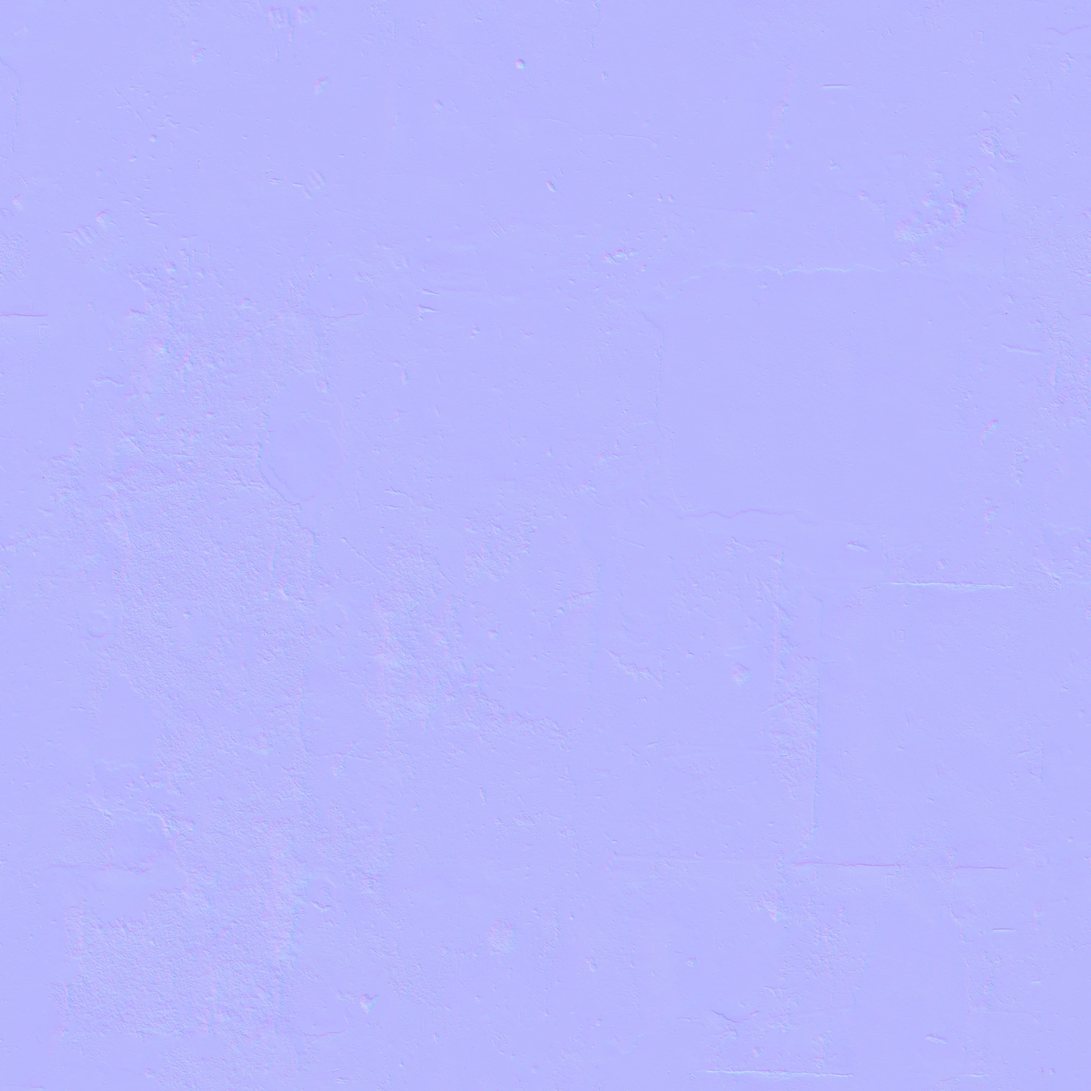
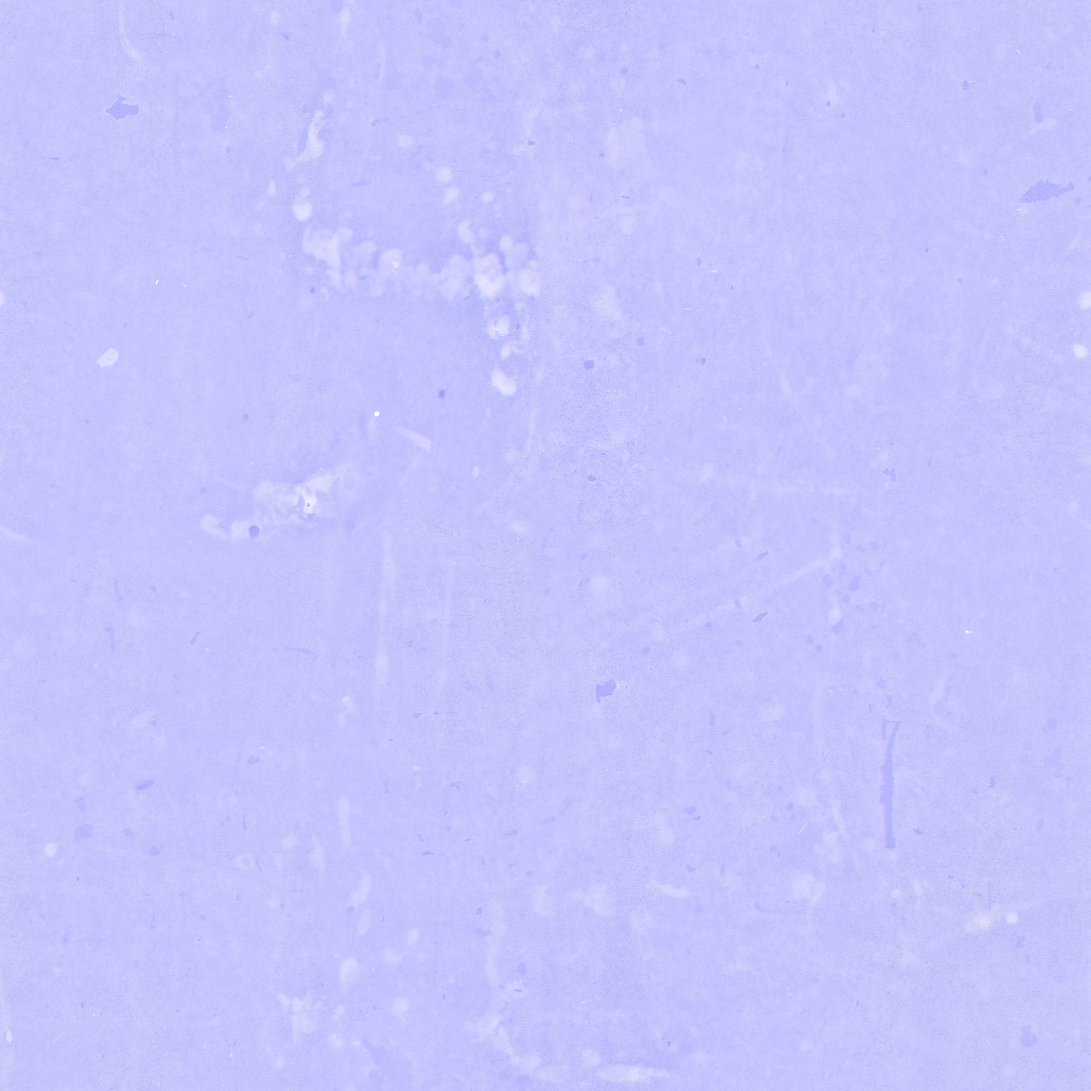
Outpost ground without camouflage, grey steel instead of toy green, deck railings, quieter glows
- Outpost ground scan is worn concrete (the previous scan's stains plus the stain layer read as camo); stain
  layer contrast roughly halved, ground tile 7 m
- Outpost casing is weathered grey steel; painted trims worn off-white instead of glaring white
- Elevated decks get guard railings (posts, top and mid rail, toe board), open where a ramp lands
- Gate signals and tether beacons dimmed further; blast-door hazard chevrons are paint, not emissive

Claude-Session: https://claude.ai/code/session_01BTermVuq16pouLtCprPn2p

diff --git a/packages/game/src/visuals/railing.ts b/packages/game/src/visuals/railing.ts
@@ -1,0 +1,70 @@
+import type { Material } from '@babylonjs/core/Materials/material';
+import type { Mesh } from '@babylonjs/core/Meshes/mesh';
+import type { Box, Ramp } from '@riftwarden/rules/world/layout';
+
+/**
+ * Guard railing around the edge of an elevated deck, as on any real platform: posts every ~1.5 m, a top rail at
+ * 1.05 m, a mid rail and a toe board. Edges where a ramp lands stay open (the ramp's end overlaps that edge).
+ * Visual only, no collider (the drone flies over decks; towers sit inside the edge).
+ */
+export interface RailHost {
+  box(x0: number, y0: number, z0: number, x1: number, y1: number, z1: number, mat: Material, surface: string | null): Mesh;
+}
+
+/** Edge spans [start, end] along each side that are not taken by a landing ramp. Pure. */
+export function openSpans(lo: number, hi: number, blocked: readonly [number, number][]): [number, number][] {
+  let spans: [number, number][] = [[lo, hi]];
+  for (const [b0, b1] of blocked) {
+    const next: [number, number][] = [];
+    for (const [s, e] of spans) {
+      if (b1 <= s || b0 >= e) next.push([s, e]);
+      else {
+        if (b0 > s) next.push([s, b0]);
+        if (b1 < e) next.push([b1, e]);
+      }
+    }
+    spans = next;
+  }
+  return spans.filter(([s, e]) => e - s > 0.6);
+}
+
+export function buildRailings(h: RailHost, b: Box, ramps: readonly Ramp[], mat: Material, toe: Material): void {
+  const [x0, , z0] = b.min;
+  const [x1, y1, z1] = b.max;
+  const top = y1;
+  const inset = 0.08;
+  const near = (v: number, w: number) => Math.abs(v - w) < 0.6;
+  // Ramps landing on the deck: their high end touches one of the four edges.
+  const land = (edge: 'x0' | 'x1' | 'z0' | 'z1'): [number, number][] => ramps.filter((r) => Math.abs(Math.max(r.hMin, r.hMax) - top) < 0.6).flatMap((r): [number, number][] => {
+    if (r.axis === 'x') {
+      const hiEnd = r.hMax >= r.hMin ? r.x1 : r.x0;
+      if ((edge === 'x0' && near(hiEnd, x0)) || (edge === 'x1' && near(hiEnd, x1))) return [[r.z0 - 0.3, r.z1 + 0.3]];
+    } else {
+      const hiEnd = r.hMax >= r.hMin ? r.z1 : r.z0;
+      if ((edge === 'z0' && near(hiEnd, z0)) || (edge === 'z1' && near(hiEnd, z1))) return [[r.x0 - 0.3, r.x1 + 0.3]];
+    }
+    return [];
+  });
+  const sides: { along: 'x' | 'z'; at: number; edge: 'x0' | 'x1' | 'z0' | 'z1'; lo: number; hi: number; s: number }[] = [
+    { along: 'x', at: z0, edge: 'z0', lo: x0, hi: x1, s: 1 },
+    { along: 'x', at: z1, edge: 'z1', lo: x0, hi: x1, s: -1 },
+    { along: 'z', at: x0, edge: 'x0', lo: z0, hi: z1, s: 1 },
+    { along: 'z', at: x1, edge: 'x1', lo: z0, hi: z1, s: -1 },
+  ];
+  for (const side of sides) {
+    const c = side.at + side.s * inset;
+    for (const [s0, s1] of openSpans(side.lo + 0.1, side.hi - 0.1, land(side.edge))) {
+      const seg = (a0: number, a1: number, y0: number, ya: number, t: number, m: Material) => side.along === 'x'
+        ? h.box(a0, top + y0, c - t, a1, top + ya, c + t, m, null)
+        : h.box(c - t, top + y0, a0, c + t, top + ya, a1, m, null);
+      const posts = Math.max(1, Math.round((s1 - s0) / 1.5));
+      for (let k = 0; k <= posts; k++) {
+        const a = s0 + ((s1 - s0) * k) / posts;
+        seg(a - 0.025, a + 0.025, 0, 1.05, 0.025, mat);
+      }
+      seg(s0, s1, 1.0, 1.05, 0.03, mat); // top rail
+      seg(s0, s1, 0.52, 0.55, 0.018, mat); // mid rail
+      seg(s0, s1, 0, 0.12, 0.008, toe); // toe board
+    }
+  }
+}

diff --git a/packages/game/src/visuals/biomeSurfaces.ts b/packages/game/src/visuals/biomeSurfaces.ts
@@ -117,10 +117,11 @@ const SET_PBR: Partial<Record<SurfaceSetId, { metal: number; rough: number }>> =
 };
 export const BIOME_SURFACES: Record<BiomeId, { ground: SurfaceLook & { tile: number }; masonry: SurfaceLook; cladding: SurfaceLook; casing: SurfaceLook; rust: SurfaceLook }> = {
   outpost: {
-    ground: { set: 'outpost-ground', tint: [1.05, 1.02, 0.98], normal: 1, tile: 5, depth: 0.045 },
+    ground: { set: 'outpost-ground', tint: [0.92, 0.9, 0.87], normal: 1, tile: 7, depth: 0.045 },
     masonry: { set: 'outpost-masonry', tint: [0.8, 0.82, 0.84], normal: 0.9, depth: 0.03 },
     cladding: { set: 'cryo-casing', tint: [0.82, 0.8, 0.76], normal: 0.7 },
-    casing: { set: 'outpost-casing', tint: [0.62, 0.66, 0.62], normal: 0.8 },
+    // Weathered grey steel: the green paint covered every gantry, ramp and roof and read as a toy set.
+    casing: { set: 'foundry-casing', tint: [0.62, 0.64, 0.66], normal: 0.8 },
     rust: { set: 'foundry-casing', tint: [0.85, 0.8, 0.75], normal: 0.8 },
   },
   cryo: {
@@ -209,7 +210,8 @@ function yardMacro(scene: Scene, biome: BiomeId, span: number) {
       // Ground darkens toward the yard edge (runoff and dirt collect along the walls).
       const edge = Math.max(Math.abs(u - 0.5), Math.abs(v - 0.5)) * 2;
       const rim = Math.max(0, (edge - (1 - 24 / span)) * (span / 24));
-      const k = Math.max(0.35, Math.min(1, 0.78 + (broad - 0.5) * 0.55 - blotch * 0.35 - streak * 0.2 - rim * 0.3));
+      // Gentle: strong blotches on top of a scan's own stains read as camouflage.
+      const k = Math.max(0.55, Math.min(1, 0.86 + (broad - 0.5) * 0.26 - blotch * 0.16 - streak * 0.1 - rim * 0.22));
       const i = (y * N + x) * 4;
       img.data[i] = img.data[i + 1] = img.data[i + 2] = k * 255;
       img.data[i + 3] = 255;

diff --git a/packages/game/src/visuals/arena.ts b/packages/game/src/visuals/arena.ts
@@ -35,6 +35,7 @@ import { GroundRelief } from './groundRelief';
 import { sculptGround } from './uv';
 import { buildContainerStack, containerLiveries } from './containerModel';
 import { buildMachineBank, machineRoofSlots } from './machineModel';
+import { buildRailings } from './railing';
 import { arenaGrimeFaces, buildContactGrime, GRIME } from './contactGrime';
 import { PROP_SPECIES } from '@riftwarden/rules/world/propCatalog';
 
@@ -69,7 +70,8 @@ export class ArenaBuilder {
 
   constructor(private scene: Scene, private pal: Palette, private layout: ArenaLayout, private high = true) {
     this.physicsShape = new PhysicsShapeContainer(scene);
-    this.relayLight = unlit(scene, 'relayBeacon', [0.24, 2.1, 1.75]);
+    // Tether beacons stay readable (gameplay) but no longer bloom like neon.
+    this.relayLight = unlit(scene, 'relayBeacon', [0.12, 1.0, 0.85]);
   }
 
   private add(mesh: Mesh, mat: Material, surface: string | null): void {
@@ -350,6 +352,7 @@ export class ArenaBuilder {
             fascia(x, 0.47, y1 - 1.04, 0.07, 0.13, 0.15, P.metal);
           }
         }
+        buildRailings({ box: (...a) => this.box(...a) }, b, this.layout.ramps, P.metal, P.enamel);
         break;
       }
       case 'relay': {
@@ -534,7 +537,7 @@ export class ArenaBuilder {
       { id: 'south', pos: new Vector3(0, 0, -H), yaw: Math.PI },
     ];
     for (const f of frames) {
-      const lights = unlit(this.scene, `gateSignal:${f.id}`, [0.8, 0.22, 0.05], { twoSided: true });
+      const lights = unlit(this.scene, `gateSignal:${f.id}`, [0.42, 0.1, 0.025], { twoSided: true });
       const root = new TransformNode('gate', this.scene);
       root.position.copyFrom(f.pos);
       root.rotation.y = f.yaw;

diff --git a/packages/game/src/visuals/biomeLight.ts b/packages/game/src/visuals/biomeLight.ts
@@ -45,6 +45,8 @@ export function applyBiomeLight(scene: Scene, post: PostFx, P: Palette, biome: B
   P.steel.metallic = 0.25;
   // Bare steel (pipes, rails, ladders) read as white plastic under the stronger fill: weathered galvanised instead.
   P.metal.albedoColor.set(0.46, 0.47, 0.48);
+  // Painted trims (vent frames, bands) glared white under the fill: worn off-white.
+  P.white.albedoColor.set(0.32, 0.32, 0.3);
   P.metal.roughness = 1.25;
   // Decorative emissive strips (wall bars, machine slots, rings) were tuned to carry a dark scene; in a lit one they
   // read as arcade neon. Real plant has small indicators, so they drop well below bloom threshold.

diff --git a/packages/game/src/world/ArenaDynamics.ts b/packages/game/src/world/ArenaDynamics.ts
@@ -114,7 +114,8 @@ export class ArenaDynamics {
     const w = b.max[0] - b.min[0];
     const h = b.max[1] - b.min[1];
     const d = b.max[2] - b.min[2];
-    const hazard = unlit(this.scene, 'doorHazard', [0.95, 0.38, 0.04]);
+    // Hazard chevrons are paint, not light.
+    const hazard = P.enamel;
     const warn = unlit(this.scene, 'doorWarn', [0.45, 0.04, 0.015]);
     this.warnLights.push({ mat: warn, on: () => this.door.some((m) => m.t > 0 && m.t < 1) });
     for (const side of [-1, 1]) {

diff --git a/tests/railing.test.ts b/tests/railing.test.ts
@@ -1,0 +1,11 @@
+import { describe, expect, it } from 'vitest';
+import { openSpans } from '@riftwarden/game/visuals/railing';
+
+describe('deck railing spans', () => {
+  it('leaves a gap where a ramp lands and drops slivers', () => {
+    expect(openSpans(0, 10, [])).toEqual([[0, 10]]);
+    expect(openSpans(0, 10, [[3, 6]])).toEqual([[0, 3], [6, 10]]);
+    expect(openSpans(0, 10, [[0.2, 9.7]])).toEqual([]);
+    expect(openSpans(0, 10, [[-1, 2], [8, 12]])).toEqual([[2, 8]]);
+  });
+});

diff --git a/docs/assets/credits.md b/docs/assets/credits.md
@@ -2,7 +2,7 @@
 
 Generated by `node scripts/fetch-cc0.mjs` from `assets-src/cc0.sources.json`; do not edit by hand. Every asset is
 CC0 1.0 (public domain dedication); attribution is not required, it is kept for provenance. Files live under
-`packages/game/src/assets/cc0/` (29.5 MB in total). Models and textures: [Poly Haven](https://polyhaven.com/license).
+`packages/game/src/assets/cc0/` (30.9 MB in total). Models and textures: [Poly Haven](https://polyhaven.com/license).
 Music: [OpenGameArt](https://opengameart.org) pages whose only listed licence is CC0.
 
 | Kind | File | Source | Author | Licence |
@@ -68,9 +68,9 @@ Music: [OpenGameArt](https://opengameart.org) pages whose only listed licence is
 | texture | `sets/outpost-casing-albedo.webp` | [Green Metal Rust (albedo, 1k)](https://polyhaven.com/a/green_metal_rust) | Rob Tuytel | CC0-1.0 |
 | texture | `sets/outpost-casing-arm.webp` | [Green Metal Rust (arm, 1k)](https://polyhaven.com/a/green_metal_rust) | Rob Tuytel | CC0-1.0 |
 | texture | `sets/outpost-casing-normal.webp` | [Green Metal Rust (normal, 1k)](https://polyhaven.com/a/green_metal_rust) | Rob Tuytel | CC0-1.0 |
-| texture | `sets/outpost-ground-albedo.webp` | [Concrete Floor Damaged 01 (albedo, 2k)](https://polyhaven.com/a/concrete_floor_damaged_01) | Rob Tuytel | CC0-1.0 |
-| texture | `sets/outpost-ground-arm.webp` | [Concrete Floor Damaged 01 (arm, 2k)](https://polyhaven.com/a/concrete_floor_damaged_01) | Rob Tuytel | CC0-1.0 |
-| texture | `sets/outpost-ground-normal.webp` | [Concrete Floor Damaged 01 (normal, 2k)](https://polyhaven.com/a/concrete_floor_damaged_01) | Rob Tuytel | CC0-1.0 |
+| texture | `sets/outpost-ground-albedo.webp` | [Concrete Floor Worn 001 (albedo, 2k)](https://polyhaven.com/a/concrete_floor_worn_001) | Dimitrios Savva, Rico Cilliers | CC0-1.0 |
+| texture | `sets/outpost-ground-arm.webp` | [Concrete Floor Worn 001 (arm, 2k)](https://polyhaven.com/a/concrete_floor_worn_001) | Dimitrios Savva, Rico Cilliers | CC0-1.0 |
+| texture | `sets/outpost-ground-normal.webp` | [Concrete Floor Worn 001 (normal, 2k)](https://polyhaven.com/a/concrete_floor_worn_001) | Dimitrios Savva, Rico Cilliers | CC0-1.0 |
 | texture | `sets/outpost-masonry-albedo.webp` | [Concrete Wall 006 (albedo, 1k)](https://polyhaven.com/a/concrete_wall_006) | Dario Barresi, Charlotte Baglioni | CC0-1.0 |
 | texture | `sets/outpost-masonry-arm.webp` | [Concrete Wall 006 (arm, 1k)](https://polyhaven.com/a/concrete_wall_006) | Dario Barresi, Charlotte Baglioni | CC0-1.0 |
 | texture | `sets/outpost-masonry-normal.webp` | [Concrete Wall 006 (normal, 1k)](https://polyhaven.com/a/concrete_wall_006) | Dario Barresi, Charlotte Baglioni | CC0-1.0 |
